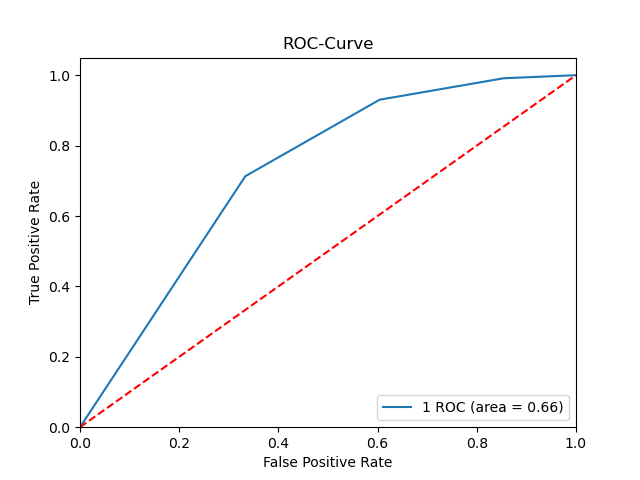
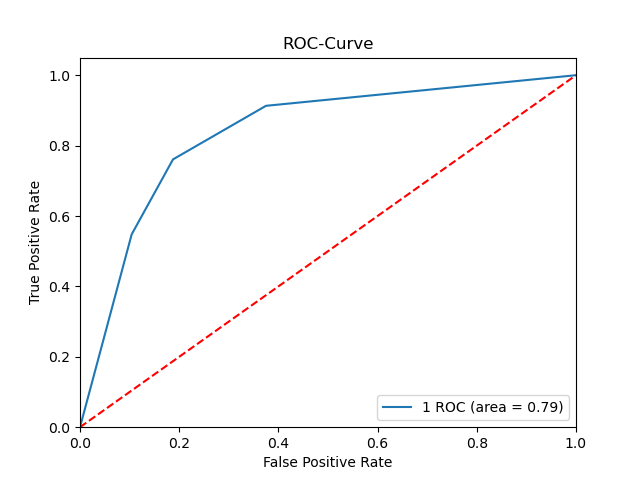
implemented kselection, fixed fitting knn

diff --git a/KNNv1.3.py b/KNNv1.3.py
@@ -27,7 +27,7 @@ def evaluate_features_knn(k, n_neighbors):
     return scores.mean()
 
 #variables
-num_Neighbor = 11
+num_Neighbor = 3
 split = 0.2
 
 #read data
@@ -44,14 +44,11 @@ y = data.iloc[:, -1].values
 # Split the data into training and testing sets
 X_train, X_test, y_train, y_test = train_test_split(X, y, test_size=0.2, random_state=42)
 
-# Handle class imbalance using SMOTE
-smote = SMOTE(random_state=42)
-X_train_resampled, y_train_resampled = smote.fit_resample(X_train, y_train)
 
 error_rates = []
-for i in np.arange(1, 302, step=2):
+for i in np.arange(1, 41):
     new_model = KNeighborsClassifier(n_neighbors = i)
-    new_model.fit(X_train_resampled, y_train_resampled)
+    new_model.fit(X_train, y_train)
     new_predictions = new_model.predict(X_test)
     print(np.mean(new_predictions != y_test))
     error_rates.append(np.mean(new_predictions != y_test))
@@ -63,6 +60,11 @@ plt.title('Elbow Plot for n Selection')
 plt.plot(error_rates)
 plt.savefig(f"../FoDSProject/kNN_performance/kNN_Elbow_{str(split)}_split.png")
 plt.close()
+
+
+# Handle class imbalance using SMOTE
+smote = SMOTE(random_state=42)
+X_train_resampled, y_train_resampled = smote.fit_resample(X_train, y_train)
 
 
 num_features = np.arange(1, 300)
@@ -107,7 +109,7 @@ X_train_resampled_new = scaler.fit_transform(X_train_resampled_new)
 X_test_new = scaler.transform(X_test_new)
 
 knn = KNeighborsClassifier(n_neighbors=num_Neighbor)
-knn.fit(X_train_resampled_new, y_train)
+knn.fit(X_train_resampled_new, y_train_resampled)
 fpr, tpr, thresholds = metrics.roc_curve(y_test, knn.predict_proba(X_test_new)[:,1])
 auc = metrics.roc_auc_score(y_test,knn.predict(X_test_new))
 plt.plot(fpr, tpr, label='%s ROC (area = %0.2f)' % (1, auc))
